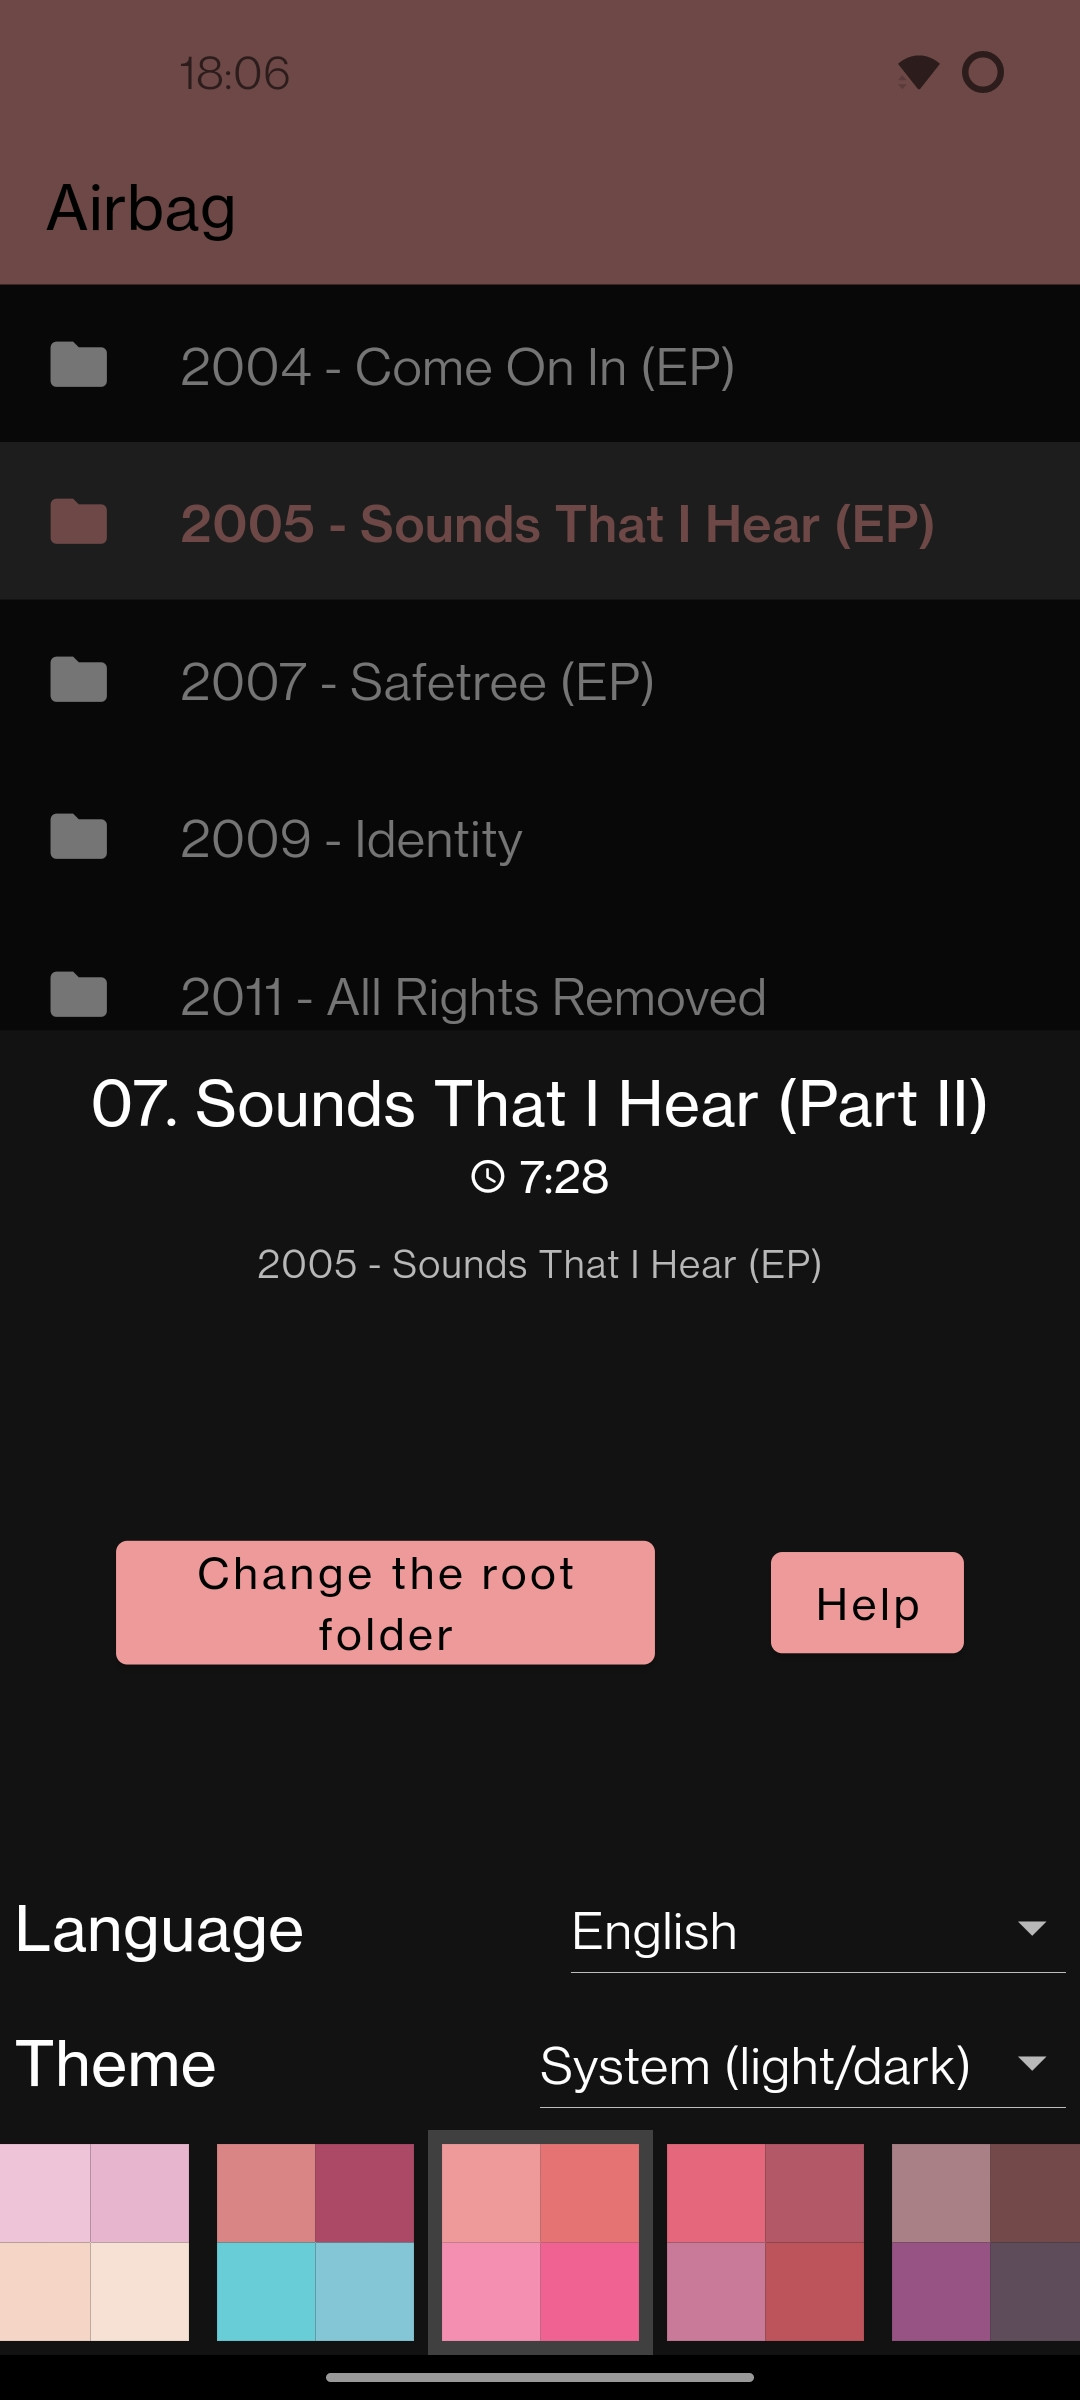
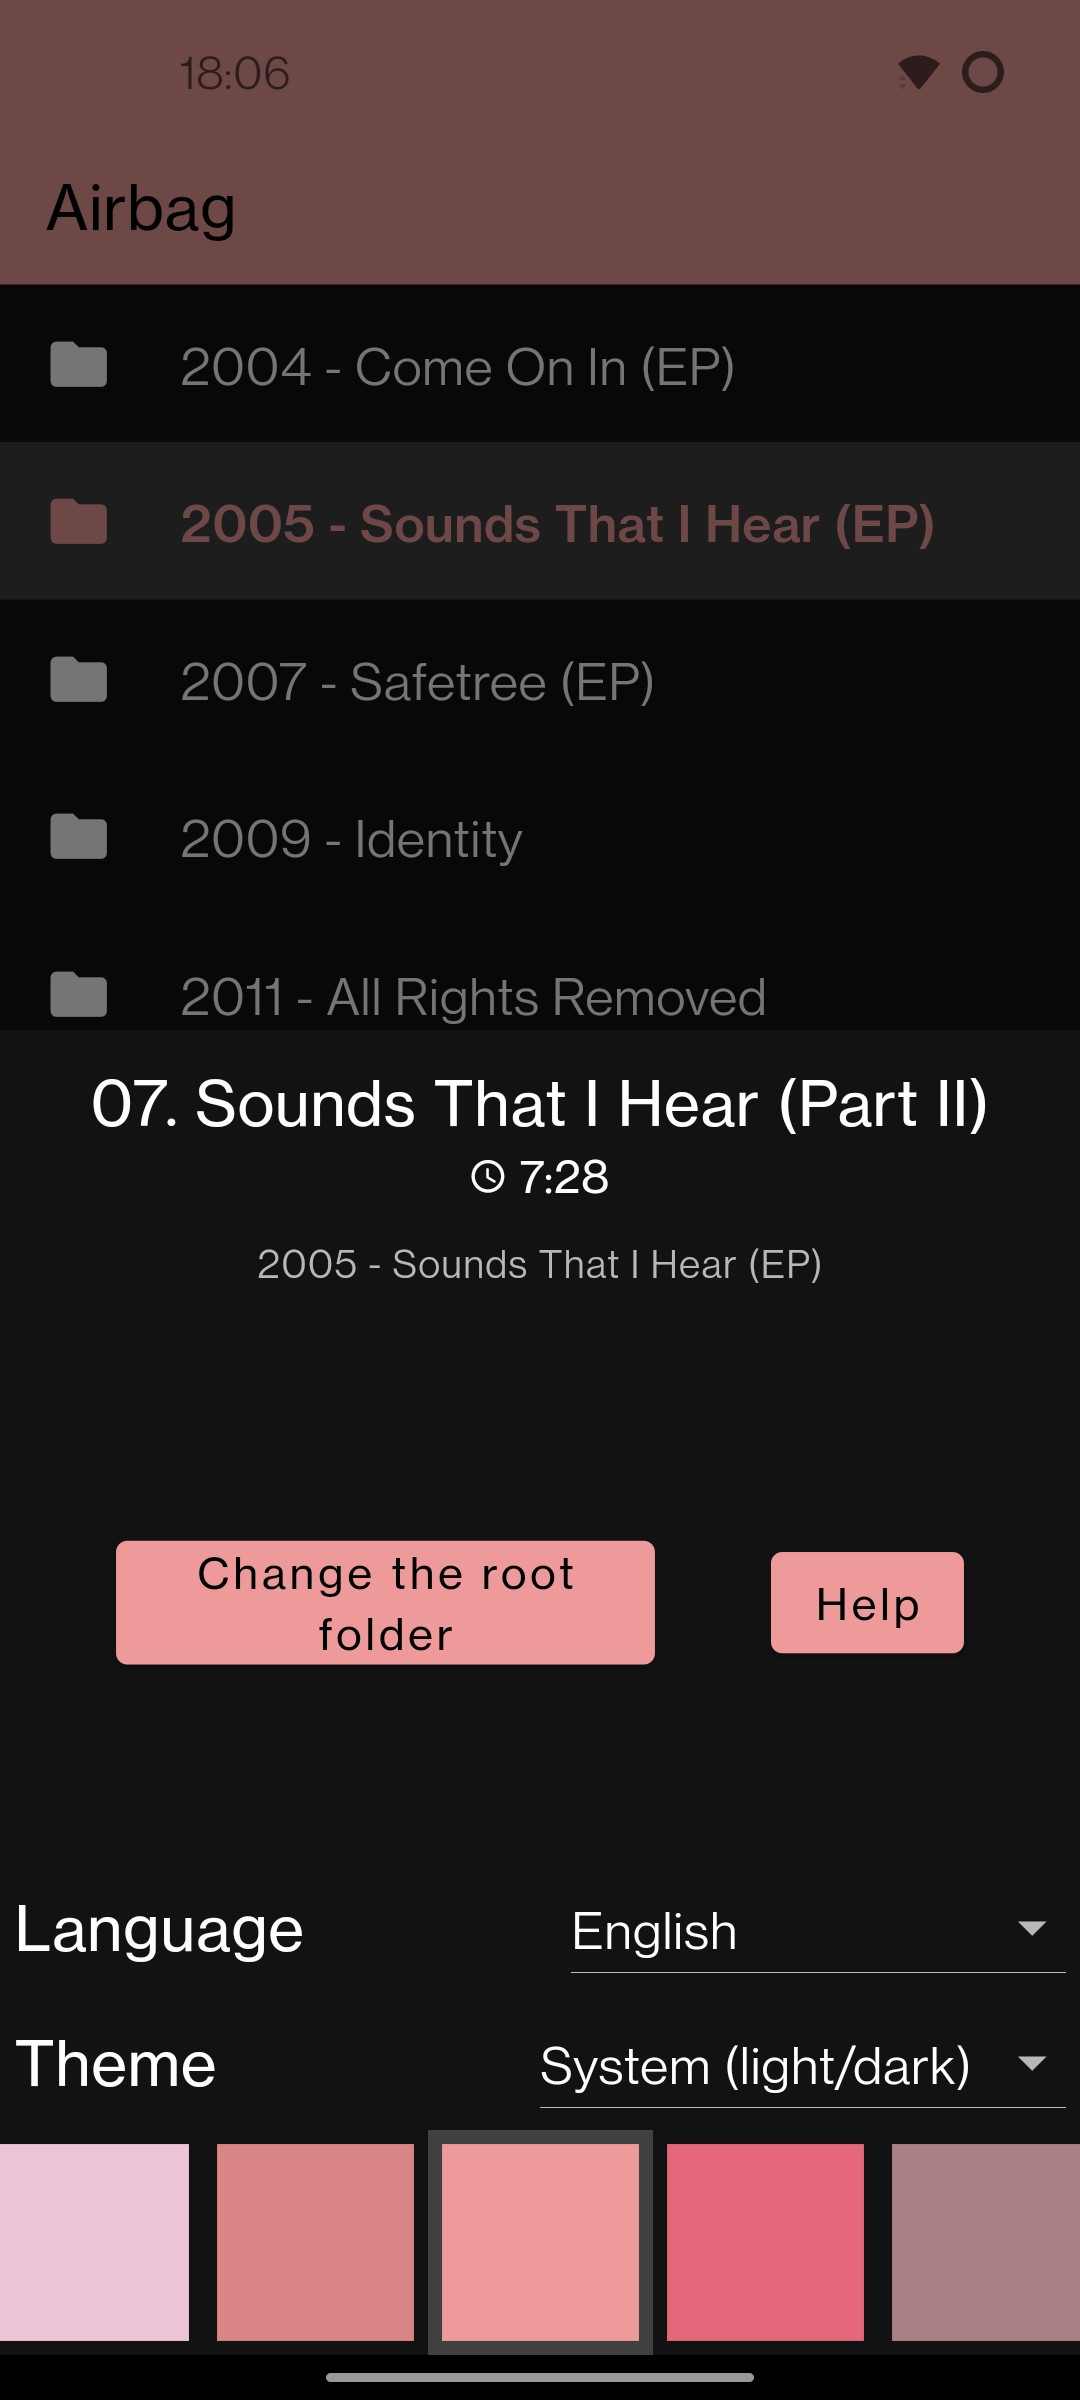
Remove unused colors from the theme selector

Changed region(s): [[0.4889, 0.875, 1.0, 1.0], [0.0611, 0.875, 0.3972, 1.0]]

diff --git a/lib/widgets/scheme_tile.dart b/lib/widgets/scheme_tile.dart
@@ -6,9 +6,9 @@ import 'package:flutter/material.dart';
 import 'package:flex_color_scheme/flex_color_scheme.dart';
 
 class SchemeTile extends StatelessWidget {
-  static const double boxWidth = 35;
+  static const double boxWidth = 70;
   static const double padding = 5;
-  static const double fullWidth = boxWidth * 2 + padding * 2;
+  static const double fullWidth = boxWidth + padding * 2;
 
   const SchemeTile({
     required this.scheme,
@@ -34,45 +34,12 @@ class SchemeTile extends StatelessWidget {
         color: isCurrent ? Theme.of(context).highlightColor : Colors.transparent,
         child: Padding(
           padding: const EdgeInsets.all(SchemeTile.padding),
-          child: Column(
-            children: [
-              Row (
-                children: [
-                  SizedBox(
-                    width: SchemeTile.boxWidth,
-                    height: SchemeTile.boxWidth,
-                    child: Container(
-                      color: colors(context).primary
-                    )
-                  ),
-                  SizedBox(
-                    width: SchemeTile.boxWidth,
-                    height: SchemeTile.boxWidth,
-                    child: Container(
-                      color: colors(context).primaryVariant
-                    )
-                  )
-                ]
-              ),
-              Row (
-                children: [
-                  SizedBox(
-                    width: SchemeTile.boxWidth,
-                    height: SchemeTile.boxWidth,
-                    child: Container(
-                      color: colors(context).secondary
-                    ),
-                  ),
-                  SizedBox(
-                    width: SchemeTile.boxWidth,
-                    height: SchemeTile.boxWidth,
-                    child: Container(
-                      color: colors(context).secondaryVariant
-                    )
-                  )
-                ]
-              )
-            ]
+          child: SizedBox(
+            width: SchemeTile.boxWidth,
+            height: SchemeTile.boxWidth,
+            child: Container(
+              color: colors(context).primary
+            )
           )
         )
       )
